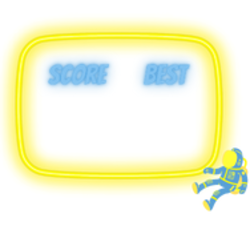
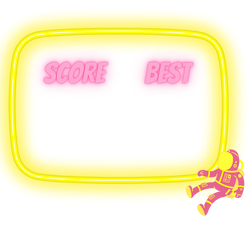
fix background and scoreboard

diff --git a/src/component/GameOverAnimation.java b/src/component/GameOverAnimation.java
@@ -37,15 +37,15 @@ public class GameOverAnimation {
         y = Constant.FRAME_HEIGHT / 3;
         g.drawImage(scoreImg, x, y, null);
 
-        // Plotting the Bureau's score 
-        g.setColor(Color.white);
+        // Plotting the Bird's score 
+        g.setColor(Color.yellow);
         g.setFont(Constant.SCORE_FONT);
         x = (Constant.FRAME_WIDTH - scoreImg.getWidth() / 2 >> 1) + SCORE_LOCATE;// Position compensation
         y += scoreImg.getHeight() >> 1;
         String str = Long.toString(bird.getCurrentScore());
         x -= GameUtil.getStringWidth(Constant.SCORE_FONT, str) >> 1;
         y += GameUtil.getStringHeight(Constant.SCORE_FONT, str);
-        g.drawString(str, x+10, y-15);
+        g.drawString(str, x+5, y-15);
 
         // Plot the highest score
         if (bird.getBestScore() > 0) {

diff --git a/src/component/Bird.java b/src/component/Bird.java
@@ -96,7 +96,7 @@ public class Bird {
     public static final double ACC_Y = 2; // players downward acceleration
     public static final int MAX_VEL_Y = 15; // max velocity along Y, max descend speed
     private int velocity = 0; // bird's velocity along Y, default same as playerFlapped
-    private final int BOTTOM_BOUNDARY = Constant.FRAME_HEIGHT - GameBackground.GROUND_HEIGHT - (BIRD_HEIGHT / 2);
+    private final int BOTTOM_BOUNDARY = 550;//Constant.FRAME_HEIGHT - GameBackground.GROUND_HEIGHT - (BIRD_HEIGHT / 2);
 
     // The flight logic of a small bird
     private void movement() {

diff --git a/src/component/GameBackground.java b/src/component/GameBackground.java
@@ -37,7 +37,7 @@ public class GameBackground {
 	// Drawing method
 	public void draw(Graphics g, Bird bird) {
 		// Drawing background color
-		g.setColor(Constant.BG_COLOR);
+		//g.setColor(Constant.BG_COLOR);
 		g.fillRect(0, 0, Constant.FRAME_WIDTH, Constant.FRAME_HEIGHT);
 
 		// Get the size of the background image

diff --git a/src/util/Constant.java b/src/util/Constant.java
@@ -58,7 +58,7 @@ public class Constant {
 	public static final int GAME_SPEED = 4;
  
 	// Game background color
-	public static final Color BG_COLOR = new Color(0x4bc4cf);
+	//public static final Color BG_COLOR = new Color(0x4bc4cf);
 
 	// Game refresh rate
 	public static final int FPS = 1000 / 30;

diff --git a/src/app/App.java b/src/app/App.java
@@ -1,3 +1,4 @@
+
 package app;
 
 /**
